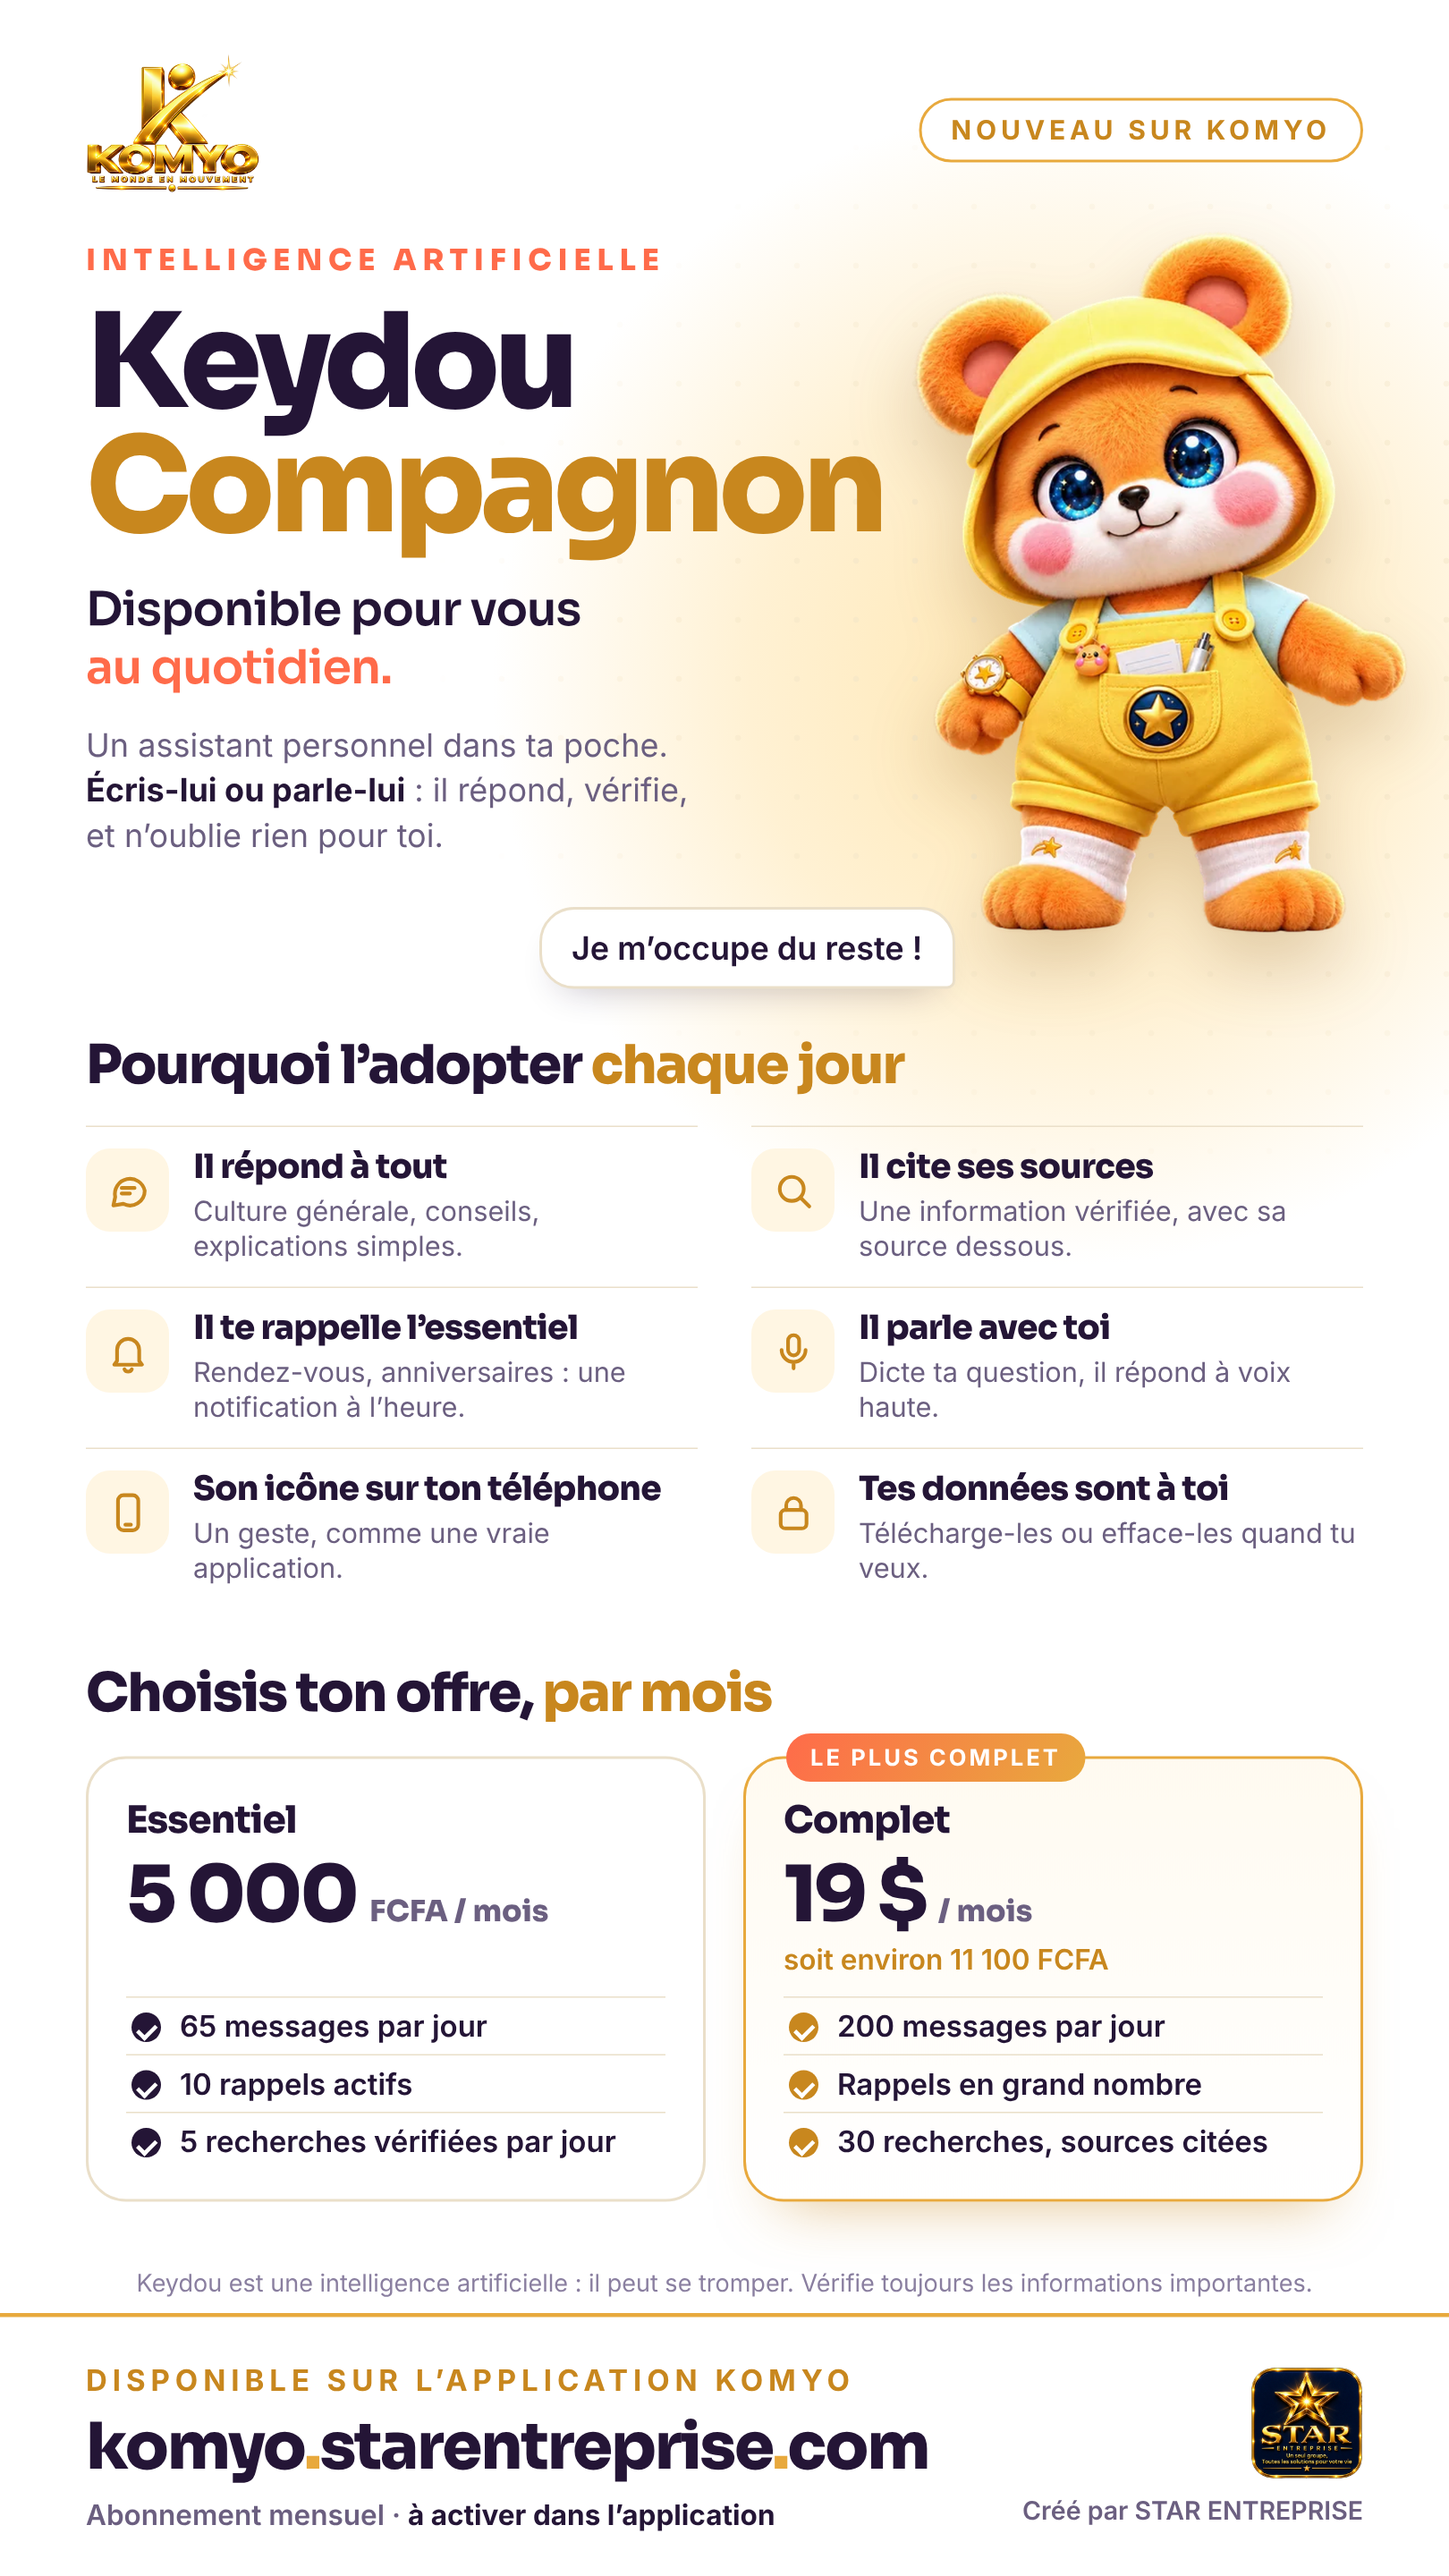
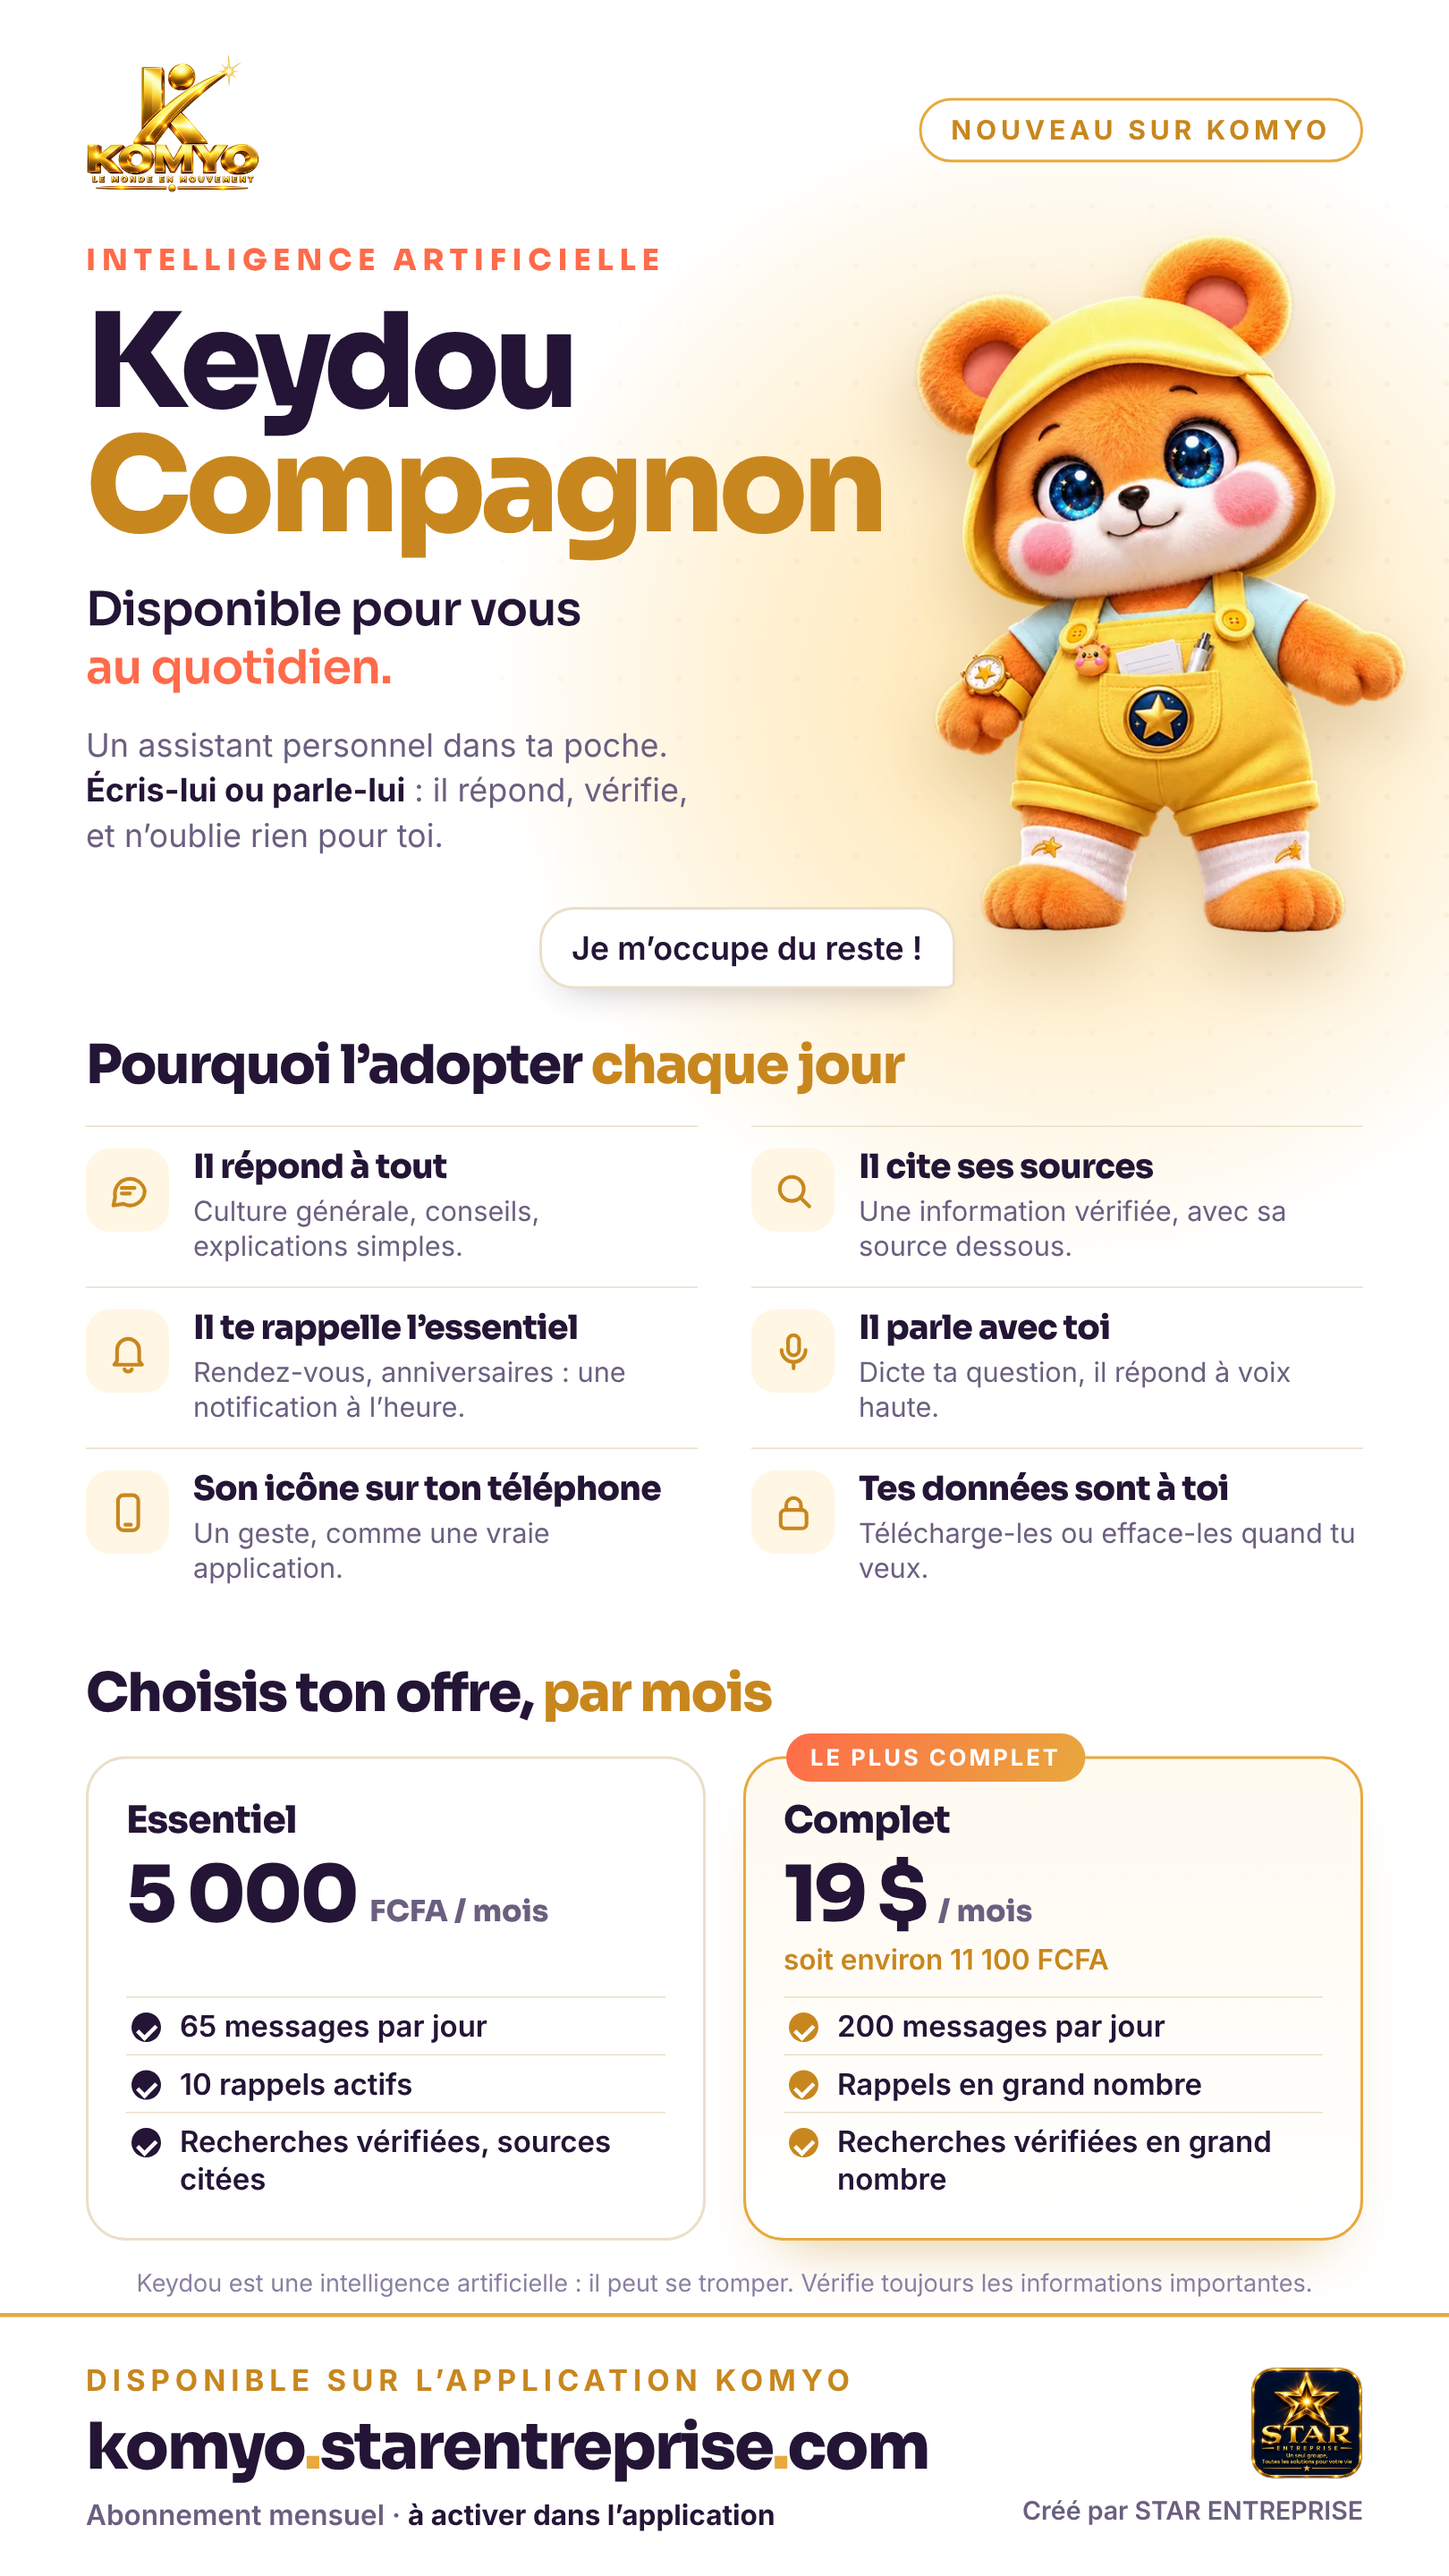
Keydou Compagnon : plus de recherches en Essentiel (10 par jour), nombre non affiché, message « seuil atteint » avec invitation à passer en Pro ; affiche mise à jour
Claude-Session: https://claude.ai/code/session_01E6FpdmevGXTi1RN5dnNTRb

diff --git a/starvibe/compagnon.html b/starvibe/compagnon.html
@@ -99,7 +99,7 @@
   <div class="pane" id="offres" hidden>
     <div class="card"><h2 id="offresTitre">Choisis ton offre</h2><p class="note" id="offresTxt">Ton accès s'ouvre dès que ton dépôt est reconnu. Jamais gratuit.</p></div>
     <div class="card"><h2>Essentiel · 5 000 FCFA<span class="actuel" id="actEss" hidden>Ton offre</span> <small style="font:600 12px 'Inter',Arial,sans-serif;color:var(--dim)">par mois</small></h2>
-      <ul><li>65 messages par jour</li><li>10 rappels actifs</li><li>Culture générale + 5 recherches vérifiées par jour</li></ul>
+      <ul><li>65 messages par jour</li><li>10 rappels actifs</li><li>Culture générale + recherches vérifiées avec sources</li></ul>
       <button class="btn" data-plan="compagnon" style="margin-top:10px">Choisir Essentiel</button></div>
     <div class="card" style="border-color:var(--gold)"><h2>Complet · 19 $<span class="actuel" id="actPro" hidden>Ton offre</span> <small style="font:600 12px 'Inter',Arial,sans-serif;color:var(--dim)">par mois (≈ 11 100 FCFA)</small></h2>
       <ul><li>200 messages par jour</li><li>Rappels illimités</li><li>Recherches approfondies, sources citées</li></ul>
@@ -203,7 +203,7 @@
 
   function quota(q){
     if(!q) return;
-    $('quota').textContent=q.messagesUtilises+' / '+q.messagesMax+' messages sur 24 h · recherches : '+q.recherchesUtilisees+' / '+q.recherchesMax;
+    $('quota').textContent=q.messagesUtilises+' / '+q.messagesMax+' messages sur 24 h';
     var l=$('limite');
     if(q.revenirDansMs>0){ l.hidden=false; l.textContent='Tu as atteint ta limite de '+q.messagesMax+' messages. Reviens dans '+q.revenirDans+'.'; $('envoi').disabled=true; }
     else{ l.hidden=true; $('envoi').disabled=false; }
